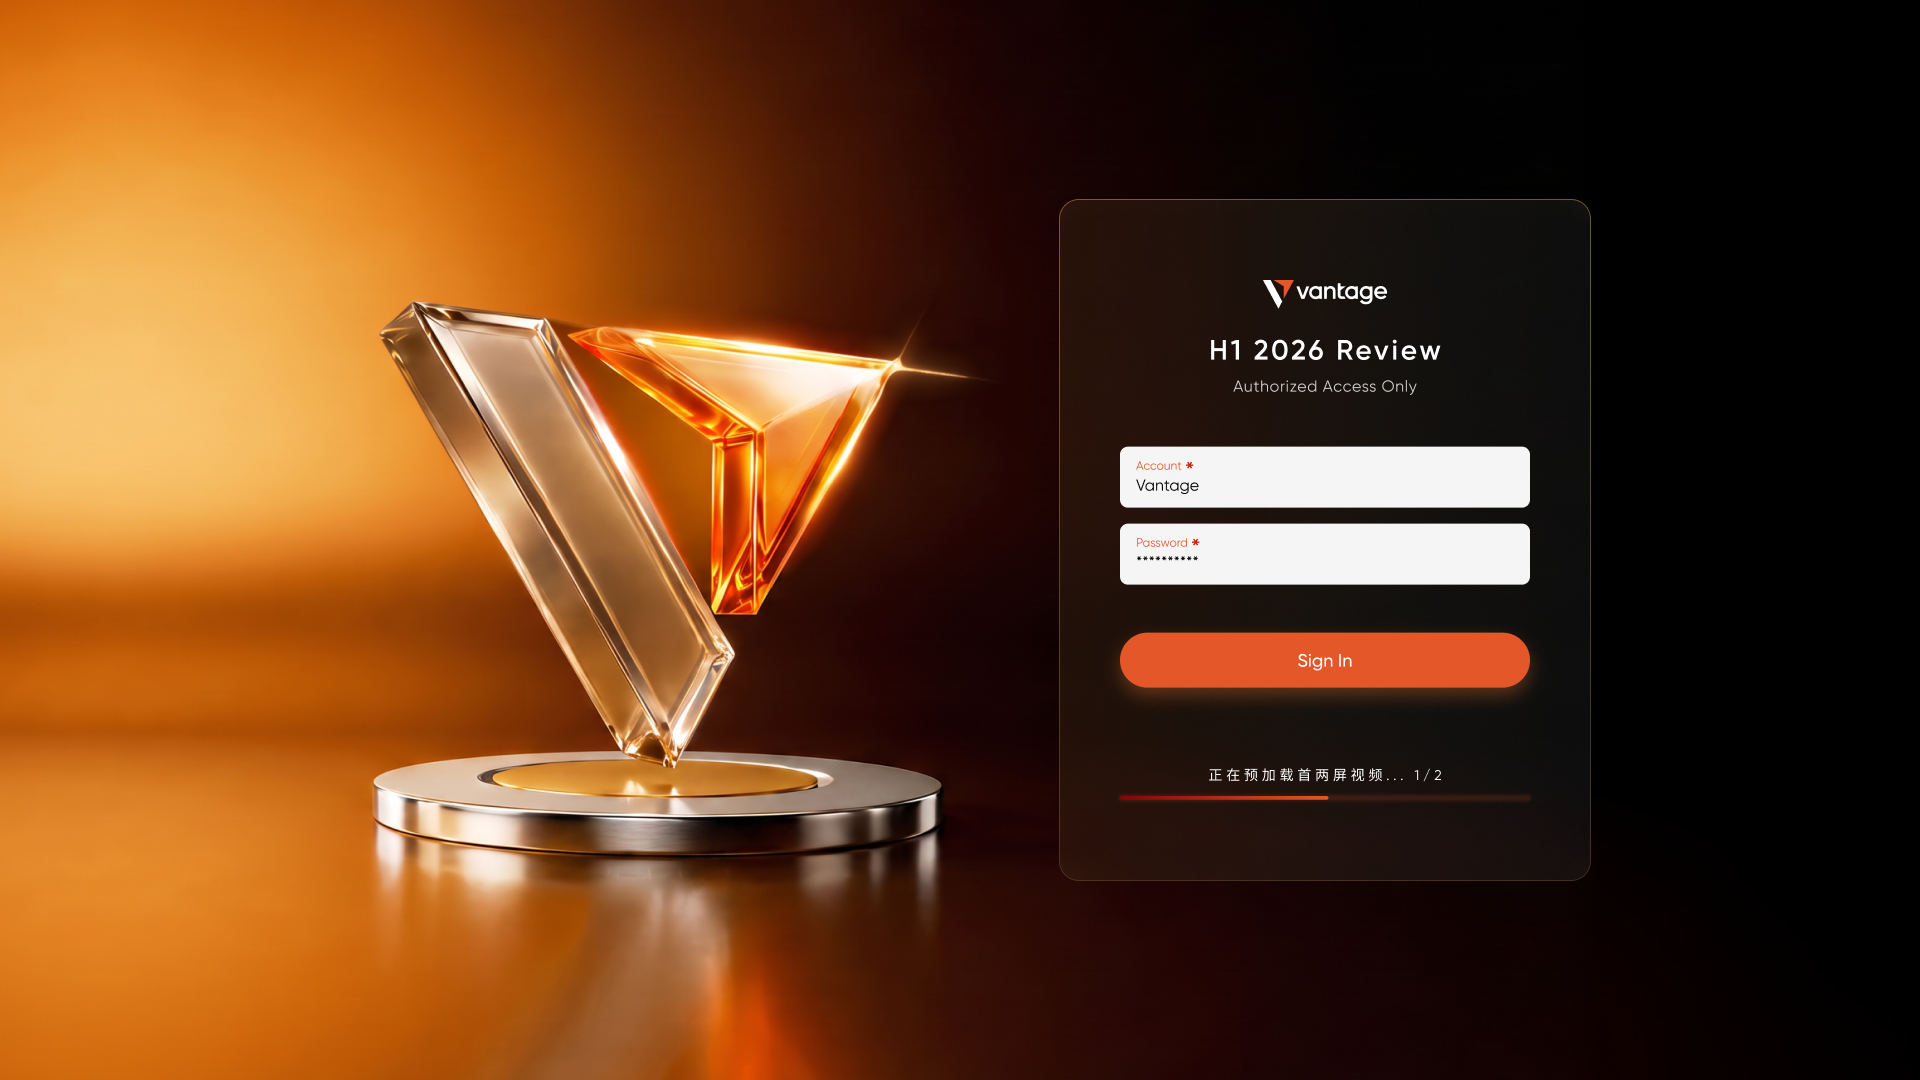
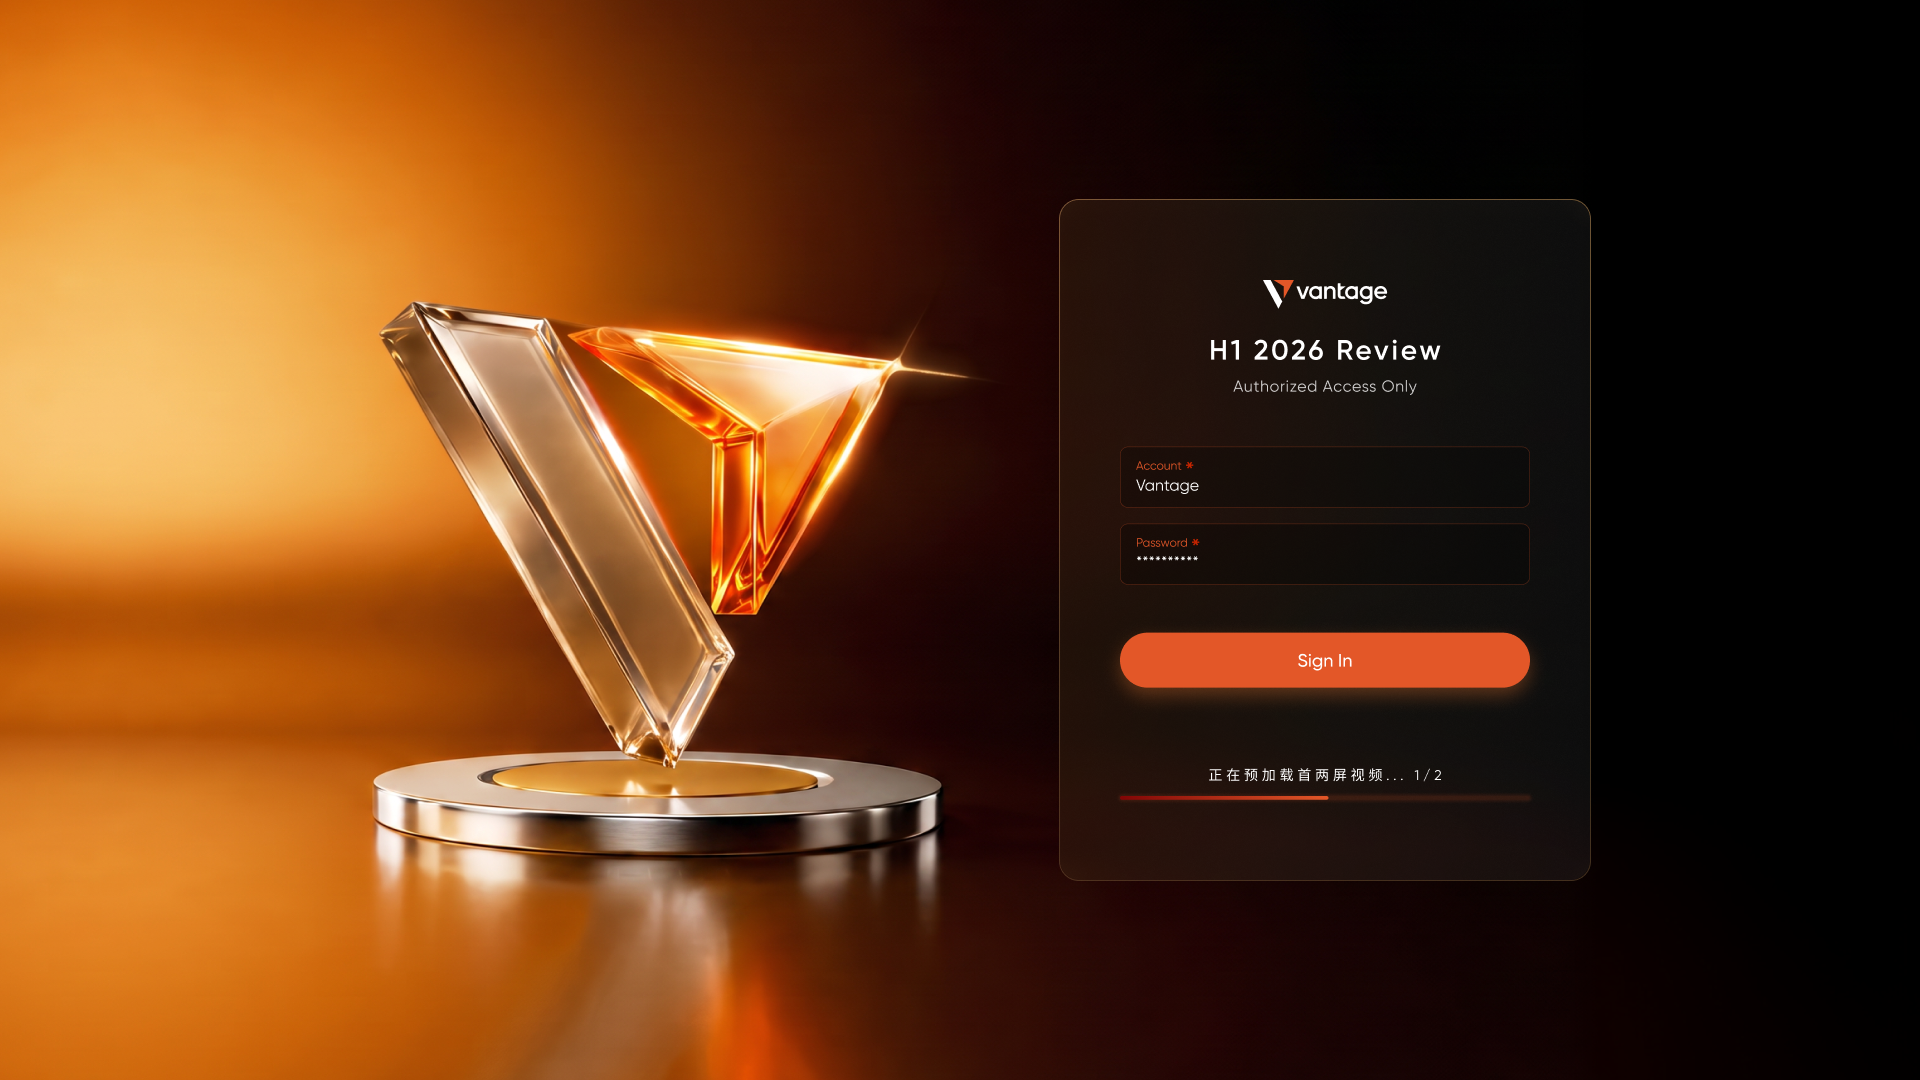
feat: refresh H1 login visuals

Changed region(s): [[0.5625, 0.3972, 0.8125, 0.55]]

diff --git a/previews/vantage-h1-immersive.html b/previews/vantage-h1-immersive.html
@@ -46,7 +46,7 @@
       z-index: 1000;
       overflow: hidden;
       background-color: #050505;
-      background-image: url("assets/vantage-h1-login-figma.png");
+      background-image: url("assets/vantage-h1-login-figma.png?v=20260731-dark-fields-v1");
       background-position: center;
       background-repeat: no-repeat;
       background-size: cover;
@@ -155,10 +155,10 @@
       width: 100%;
       height: 60px;
       overflow: hidden;
-      border: 1px solid rgba(255,255,255,.7);
+      border: 1px solid rgba(227,87,40,.18);
       border-radius: 9px;
-      background: #f5f5f5;
-      box-shadow: 0 1px 1px rgba(0,0,0,.12);
+      background: linear-gradient(100deg, #1c0e09 0%, #15100c 56%, #0b0b0a 100%);
+      box-shadow: inset 0 1px 0 rgba(255,255,255,.025), 0 1px 1px rgba(0,0,0,.22);
       transition: border-color .2s, box-shadow .2s;
     }
     .login-field:focus-within {
@@ -191,13 +191,14 @@
       border: 0;
       outline: none;
       background: transparent;
-      color: #2c2b2b;
+      color: rgba(255,255,255,.88);
       font-family: "Space Grotesk", "Noto Sans SC", sans-serif;
       font-size: 16px;
       font-weight: 400;
       line-height: 24px;
       caret-color: #ee562b;
     }
+    .login-input::placeholder { color: rgba(255,255,255,.34); }
     #loginUsername { text-transform: capitalize; }
     .login-submit {
       position: absolute;
